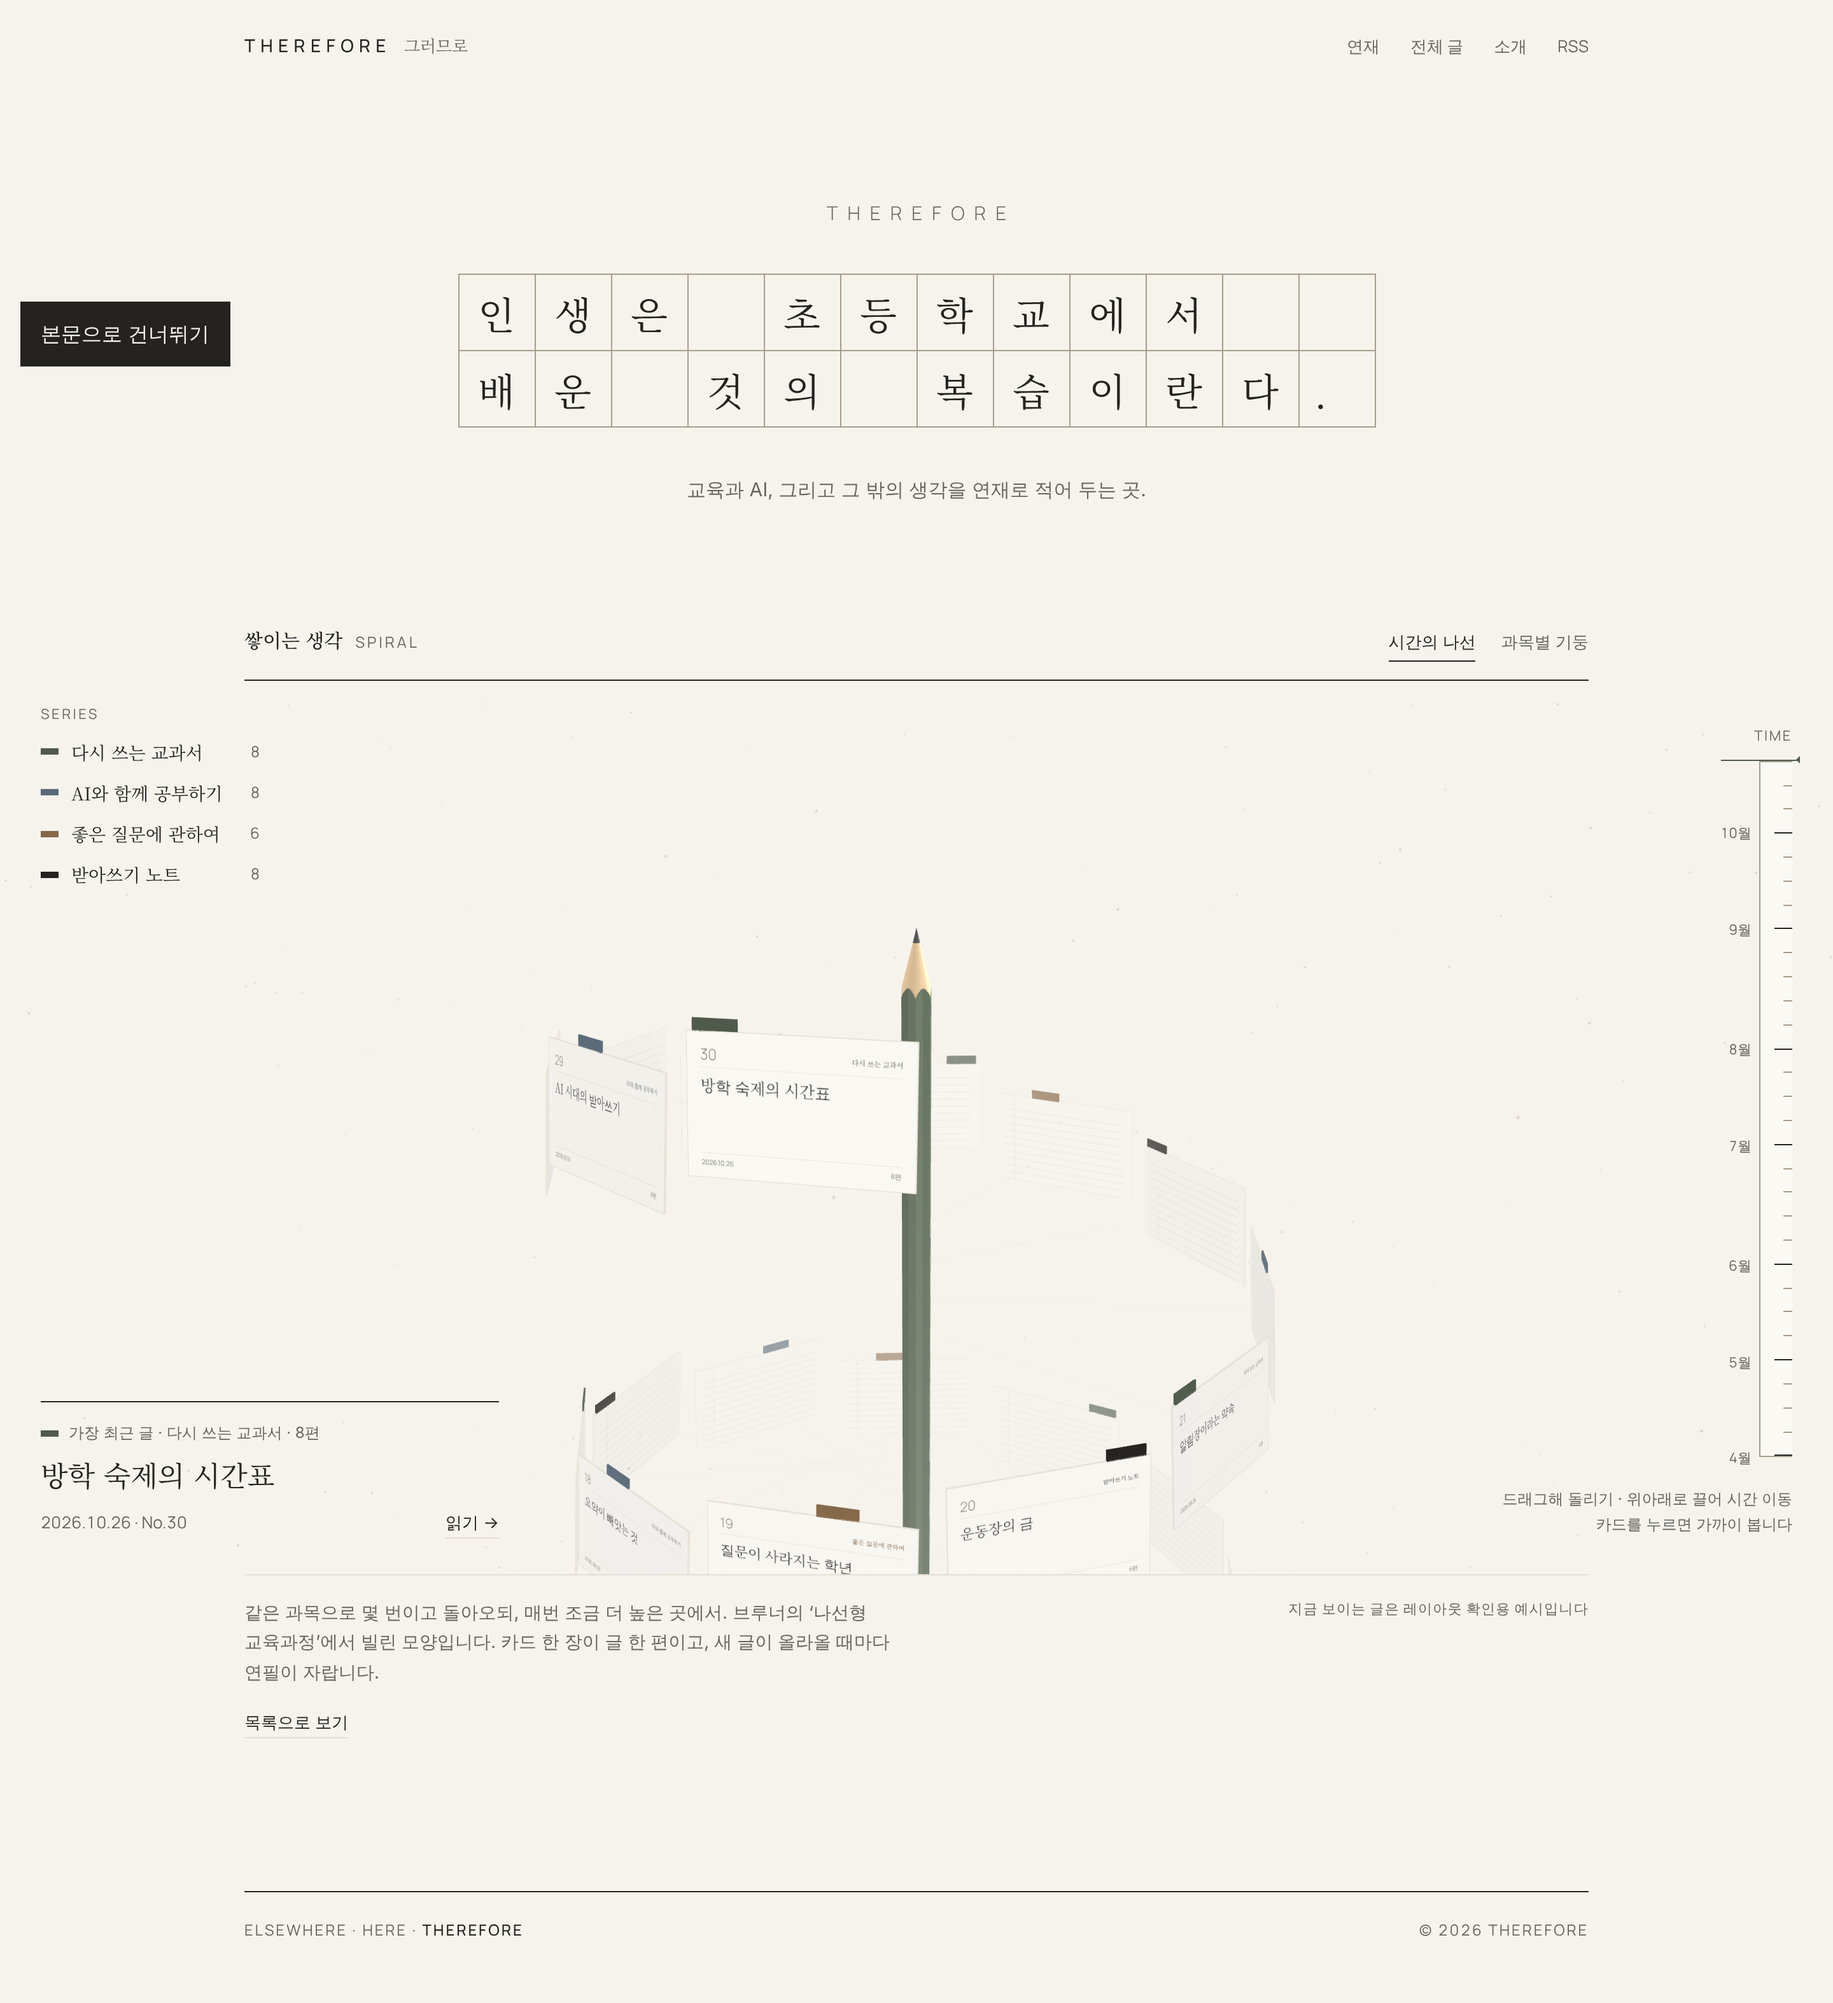
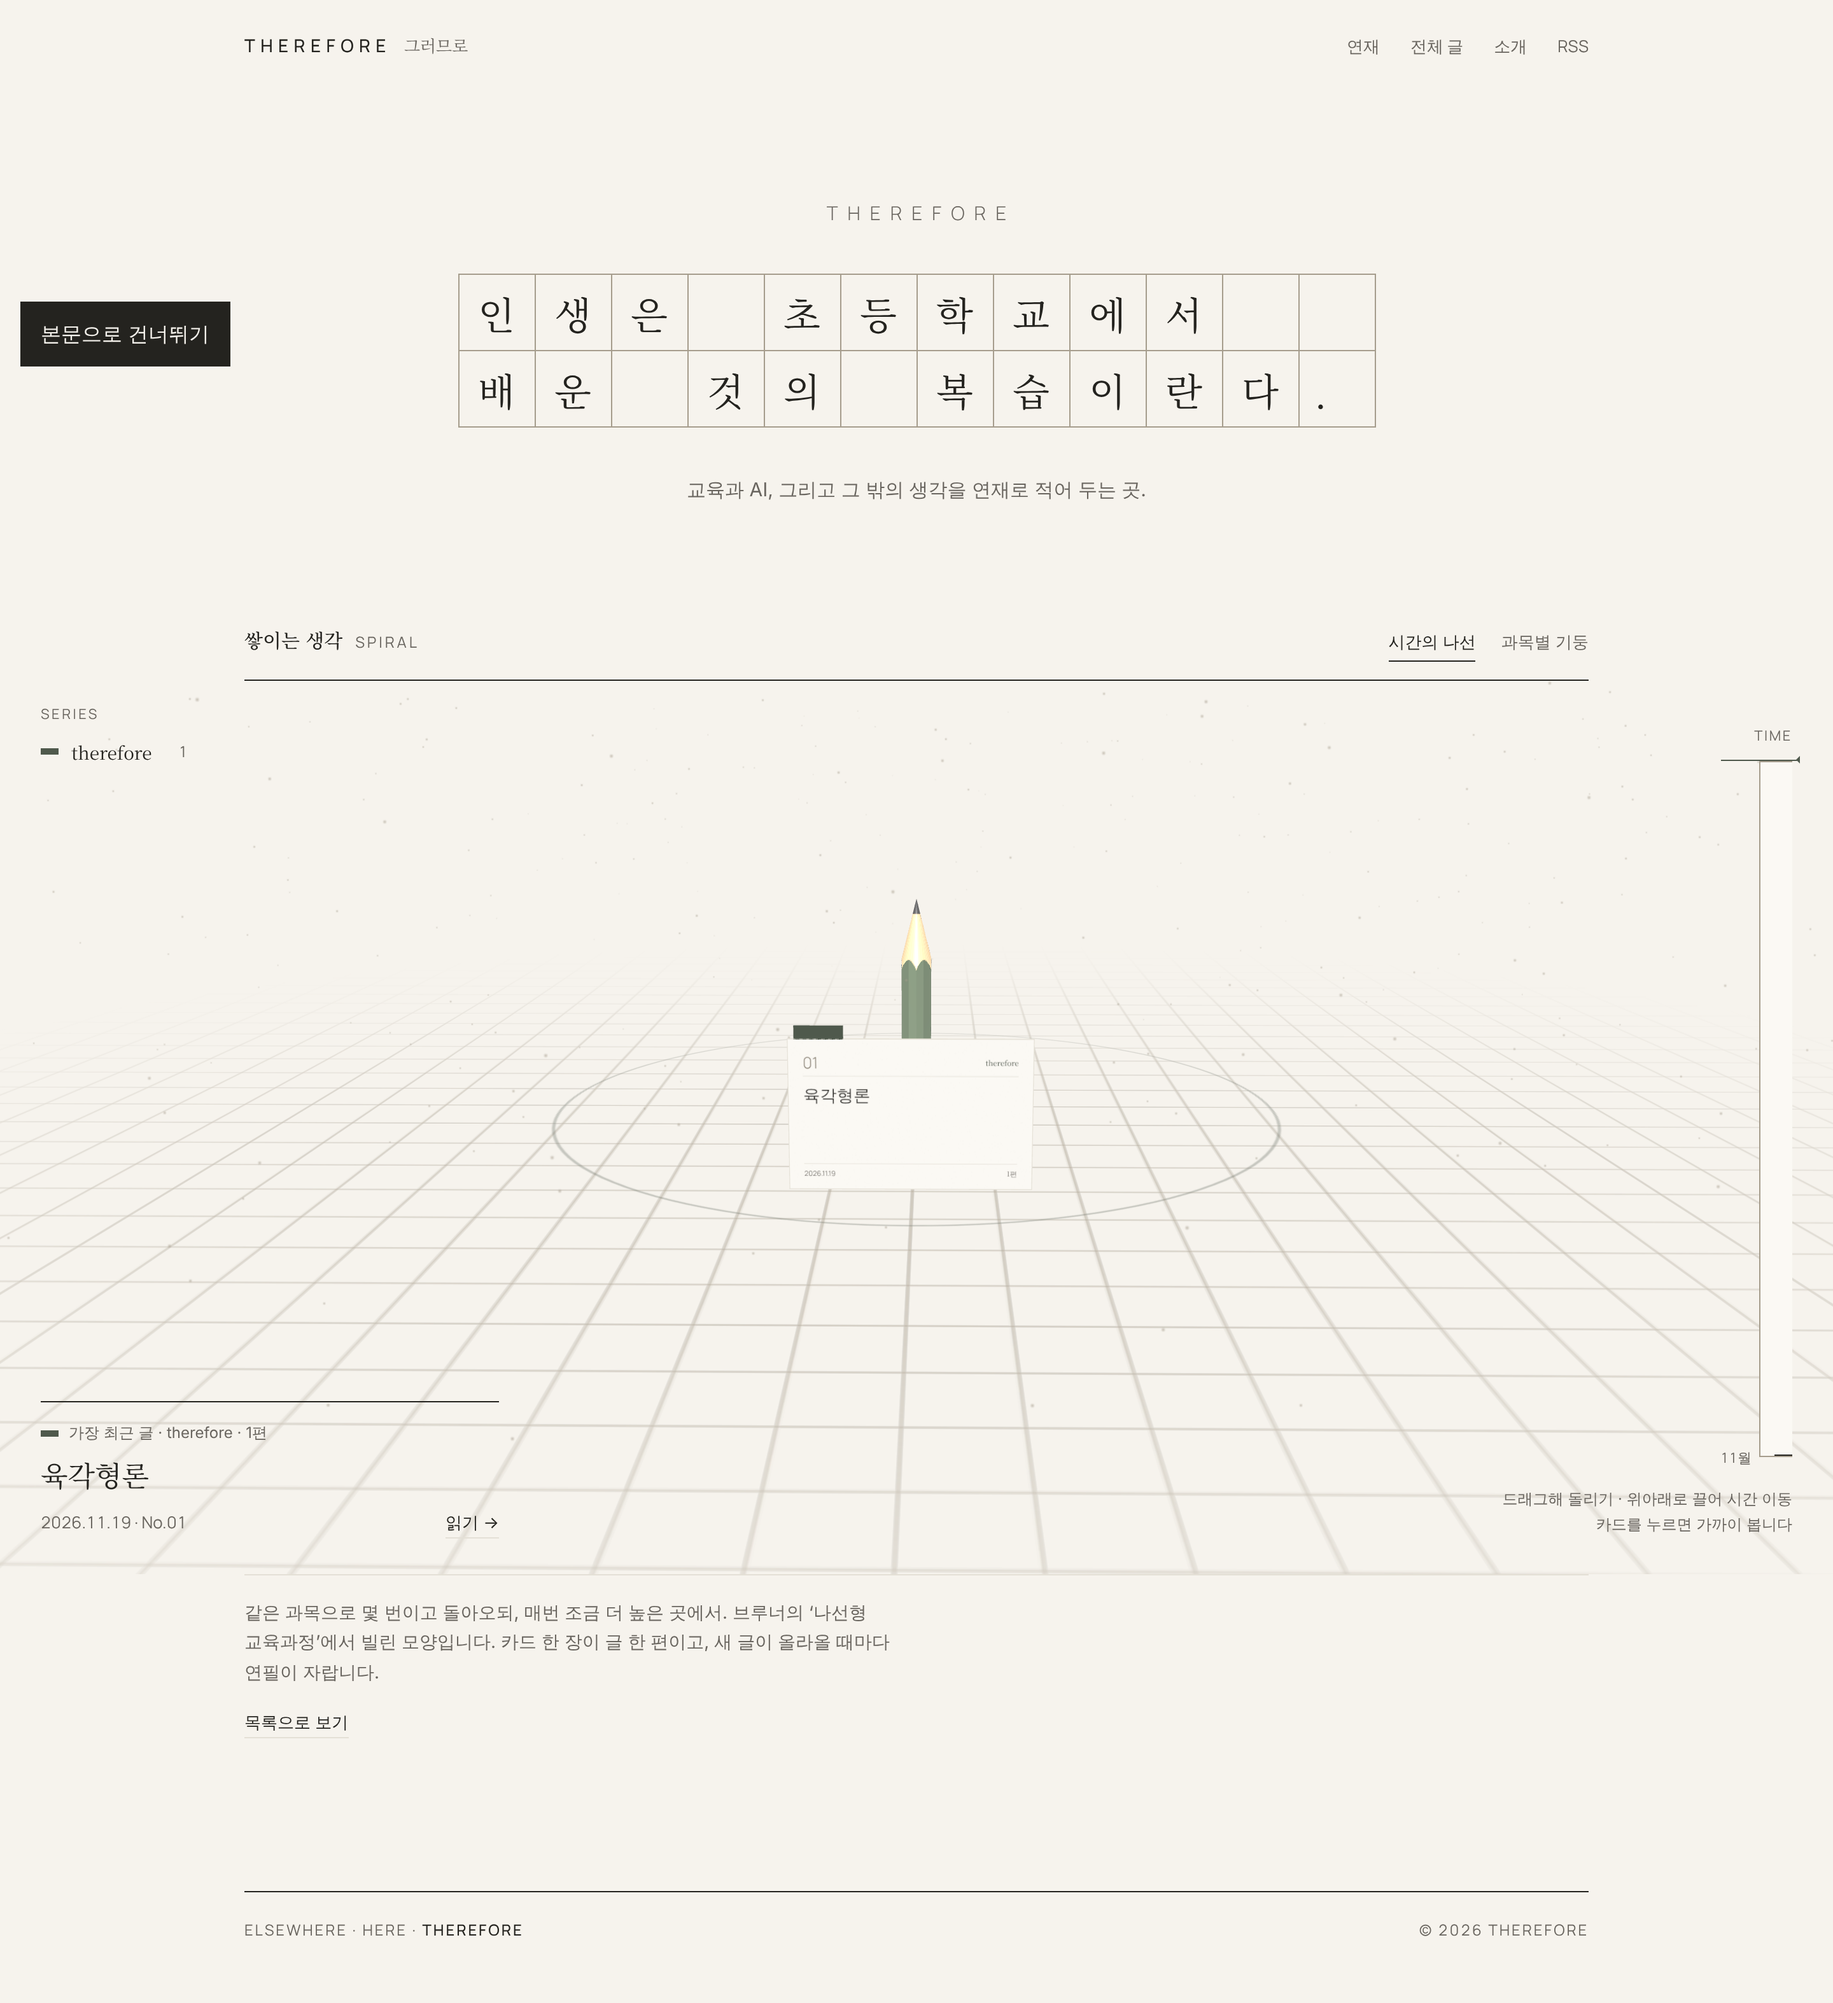
첫 연재 therefore와 첫 글 '육각형론'(제목만), 글 한 편일 때의 나선 계산 보정
Claude-Session: https://claude.ai/code/session_01MkK44uCViEpJkN2Hbai6tY

diff --git a/src/scripts/spiral.js b/src/scripts/spiral.js
@@ -104,6 +104,7 @@ export async function initSpiral(stage) {
   const RC = 3.5, CSTEP = 1.05;
   const CARD_W = 1.5, CARD_H = 0.94;
   const sAngle = (k) => k * Math.PI / 2;
+  const COL_TOP = Math.max(0, ...POSTS.map((p) => (p.ep - 1) * 1.05));
   const cardGeo = new THREE.BoxGeometry(CARD_W, CARD_H, 0.014);
   const tabGeo = new THREE.BoxGeometry(0.3, 0.085, 0.014);
 
@@ -338,8 +339,8 @@ export async function initSpiral(stage) {
     let lastM = -1;
     POSTS.forEach((p) => {
       const t = document.createElement('span'); const m = p.date.getUTCMonth();
-      t.className = 'tick' + (m !== lastM ? ' m' : ''); t.style.bottom = `${p.i / (N - 1) * 100}%`; bodyEl.append(t);
-      if (m !== lastM) { const l = document.createElement('span'); l.className = 'lab'; l.textContent = `${m + 1}월`; l.style.bottom = `${p.i / (N - 1) * 100}%`; ruler.append(l); lastM = m; }
+      t.className = 'tick' + (m !== lastM ? ' m' : ''); t.style.bottom = `${p.i / Math.max(1, N - 1) * 100}%`; bodyEl.append(t);
+      if (m !== lastM) { const l = document.createElement('span'); l.className = 'lab'; l.textContent = `${m + 1}월`; l.style.bottom = `${p.i / Math.max(1, N - 1) * 100}%`; ruler.append(l); lastM = m; }
     });
     const now = document.createElement('span'); now.className = 'now'; ruler.append(now); st.nowEl = now;
     const setFrom = (e) => { const r = ruler.getBoundingClientRect(); st.yT = clamp(1 - (e.clientY - r.top) / r.height) * TOP; st.sel = -1; st.azT = null; st.lastInput = performance.now(); };
@@ -406,7 +407,7 @@ export async function initSpiral(stage) {
     const idle = !st.dragging && now - st.lastInput > 2600;
     if (st.azT !== null) st.az = lerpAngle(st.az, st.azT, damp(0.07, dt));
     else if (!st.dragging) { st.az += st.azV * dt; st.azV *= Math.exp(-5 * dt); if (idle && !reduced && st.sel < 0 && !st.over && !st.narrow) st.az += dt * 0.07; }
-    if (st.mode === 1 && st.sel < 0) st.yT = 3.2;
+    if (st.mode === 1 && st.sel < 0) st.yT = COL_TOP / 2; // 가장 높은 기둥의 가운데
     st.y += (st.yT - st.y) * (reduced ? 1 : damp(0.07, dt));
     const distT = st.baseDist + (st.mode ? 7 : 0) - (st.sel >= 0 ? (st.narrow ? 2 : 4.2) : 0); // 휴대폰은 카드가 화면 폭의 약 70%가 되는 데서 멈춘다
     st.dist += (distT - st.dist) * damp(0.06, dt);
@@ -462,7 +463,7 @@ export async function initSpiral(stage) {
       dust.pts.rotation.y += dt * 0.01;
     }
 
-    if (st.nowEl) st.nowEl.style.bottom = `${clamp(st.y / TOP) * 100}%`;
+    if (st.nowEl) st.nowEl.style.bottom = `${(TOP ? clamp(st.y / TOP) : 1) * 100}%`;
     renderer.render(scene, camera);
   }
   requestAnimationFrame(frame);

diff --git a/src/content.config.ts b/src/content.config.ts
@@ -6,9 +6,9 @@ const series = defineCollection({
   loader: file('./src/content/series.json'),
   schema: z.object({
     name: z.string(),
-    topic: z.string(),
+    topic: z.string().optional(),
     color: z.string().regex(/^#[0-9A-Fa-f]{6}$/),
-    description: z.string(),
+    description: z.string().optional(),
     order: z.number().int(),
     sample: z.boolean().default(false),
   }),
@@ -23,7 +23,7 @@ const notes = defineCollection({
     date: z.coerce.date(),
     series: reference('series').optional(),
     format: z.enum(['essay', 'memo']).default('essay'),
-    summary: z.string(),
+    summary: z.string().optional(),
     draft: z.boolean().default(false),
     sample: z.boolean().default(false),
     // 세 사이트 통합 화면용(docs/FAMILY.md). 위치는 도시·지역 단위로만.

diff --git a/src/pages/rss.xml.ts b/src/pages/rss.xml.ts
@@ -8,7 +8,7 @@ export async function GET(context: APIContext) {
     title: 'THEREFORE · 그러므로',
     description: '인생은 초등학교에서 배운 것의 복습이란다.',
     site: context.site!,
-    items: notes.map((n) => ({ title: n.data.title, pubDate: n.data.date, description: n.data.summary, link: noteUrl(n), categories: n.seriesEntry ? [n.seriesEntry.data.name] : [] })),
+    items: notes.map((n) => ({ title: n.data.title, pubDate: n.data.date, description: n.data.summary ?? '', link: noteUrl(n), categories: n.seriesEntry ? [n.seriesEntry.data.name] : [] })),
     customData: '<language>ko</language>',
   });
 }
